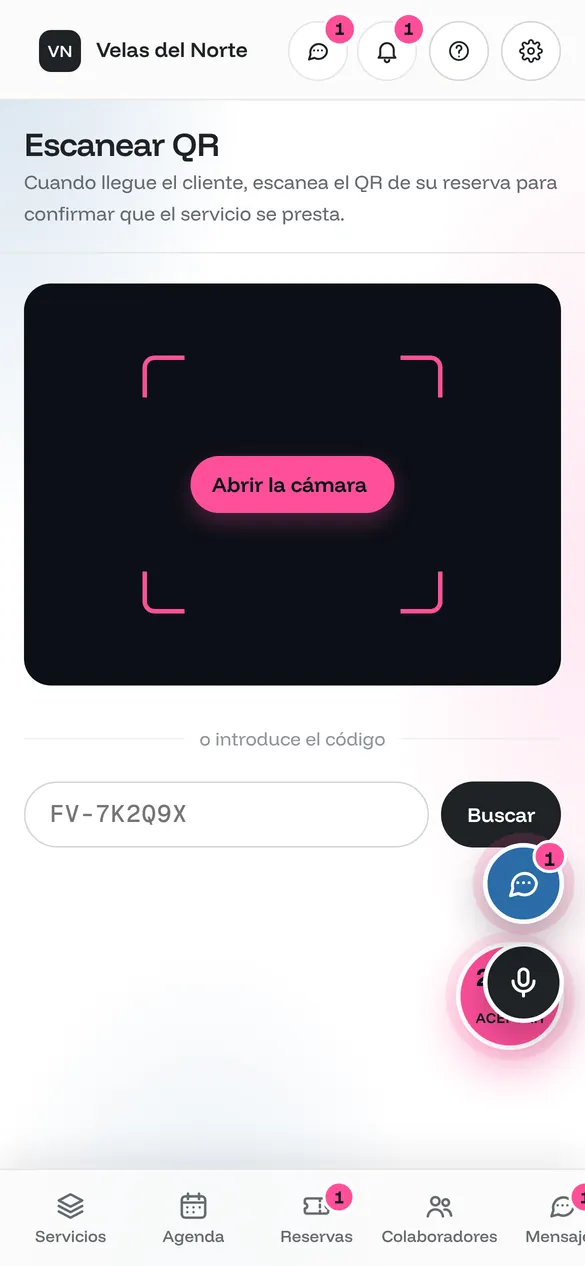
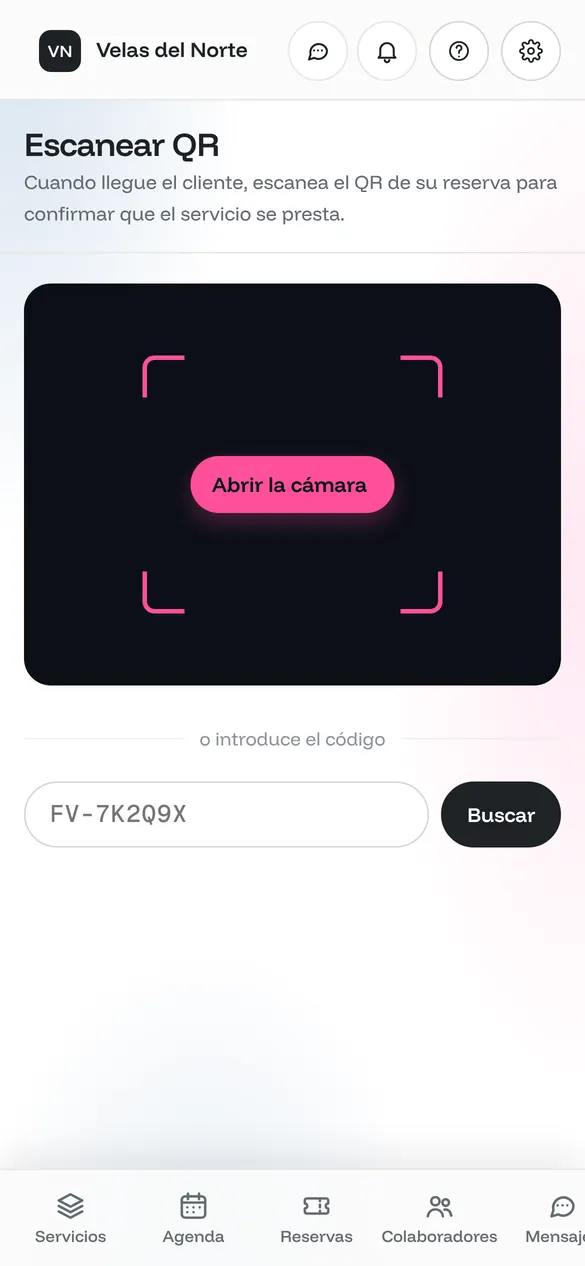
Pantallas del móvil de empresas de servicios sin botones flotantes ni notificaciones
Se vuelven a sacar de la app ocultando la burbuja «por aceptar», el micrófono, el chat
flotante y los números de avisos (se montaban unos encima de otros).

Claude-Session: https://claude.ai/code/session_01Myzkpi4ef6w6z5C82k8a4c

diff --git a/service-businesses.html b/service-businesses.html
@@ -171,7 +171,7 @@ footer a:hover{color:var(--ink)}
   <section id="que-tienes"><div class="wrap">
     <div class="head"><span class="eb">What you get</span><h2>A new sales channel and one calendar for everything<span class="dot">.</span></h2><p>Built for businesses with several boats or services, and for the skipper with a phone in hand.</p></div>
     <div class="grid"><div class="card"><span class="k">Calendar</span><h3>A professional calendar</h3><p>Your boats or services in columns, by day, week or month. Your phone and web bookings next to Favent’s; with Pro, also with Google Calendar.</p></div><div class="card"><span class="k">Bookings</span><h3>Bookings that arrive paid</h3><p>Accept or decline with one tap. The deposit is charged when you accept and, if the client does not show up, you keep it.</p></div><div class="card"><span class="k">Commission</span><h3>You set the commission</h3><p>On each service. With your partners, you agree on it once and it applies to every booking.</p></div><div class="card"><span class="k">Colleagues</span><h3>Between colleagues</h3><p>Fully booked that day? Pass the booking to a business you partner with and earn your commission.</p></div><div class="card"><span class="k">QR</span><h3>Redeem with your phone</h3><p>The skipper or guide scans the client’s QR code with their phone when starting, with their own team login.</p></div><div class="card"><span class="k">Reports</span><h3>Your sales, clearly</h3><p>Sales by month, by channel and by partner, occupancy and what has come in through Favent.</p></div></div>
-    <figure class="ph" aria-label="The app on your phone, with sample data: the calendar, a booking to accept, your services, redeeming the QR and the reports."><div class="ph-dev"><div class="ph-track" tabindex="0"><img src="/img/app/en/ph-ofr-agenda.webp?v=1" alt="Your calendar" width="390" height="844" loading="lazy" decoding="async" data-l="Your calendar"><img src="/img/app/en/ph-ofr-reservas.webp?v=1" alt="Accept bookings" width="390" height="844" loading="lazy" decoding="async" data-l="Accept bookings"><img src="/img/app/en/ph-ofr-servicios.webp?v=1" alt="Your services" width="390" height="844" loading="lazy" decoding="async" data-l="Your services"><img src="/img/app/en/ph-ofr-escanear.webp?v=1" alt="Redeem the QR" width="390" height="844" loading="lazy" decoding="async" data-l="Redeem the QR"><img src="/img/app/en/ph-ofr-informes.webp?v=1" alt="Your reports" width="390" height="844" loading="lazy" decoding="async" data-l="Your reports"></div></div><figcaption class="ph-cap"><span>Your calendar</span> <i>· sample data</i></figcaption><div class="ph-dots"><button type="button" aria-label="Screen 1" aria-current="true"></button><button type="button" aria-label="Screen 2"></button><button type="button" aria-label="Screen 3"></button><button type="button" aria-label="Screen 4"></button><button type="button" aria-label="Screen 5"></button></div></figure>
+    <figure class="ph" aria-label="The app on your phone, with sample data: the calendar, a booking to accept, your services, redeeming the QR and the reports."><div class="ph-dev"><div class="ph-track" tabindex="0"><img src="/img/app/en/ph-ofr-agenda.webp?v=2" alt="Your calendar" width="390" height="844" loading="lazy" decoding="async" data-l="Your calendar"><img src="/img/app/en/ph-ofr-reservas.webp?v=2" alt="Accept bookings" width="390" height="844" loading="lazy" decoding="async" data-l="Accept bookings"><img src="/img/app/en/ph-ofr-servicios.webp?v=2" alt="Your services" width="390" height="844" loading="lazy" decoding="async" data-l="Your services"><img src="/img/app/en/ph-ofr-escanear.webp?v=2" alt="Redeem the QR" width="390" height="844" loading="lazy" decoding="async" data-l="Redeem the QR"><img src="/img/app/en/ph-ofr-informes.webp?v=2" alt="Your reports" width="390" height="844" loading="lazy" decoding="async" data-l="Your reports"></div></div><figcaption class="ph-cap"><span>Your calendar</span> <i>· sample data</i></figcaption><div class="ph-dots"><button type="button" aria-label="Screen 1" aria-current="true"></button><button type="button" aria-label="Screen 2"></button><button type="button" aria-label="Screen 3"></button><button type="button" aria-label="Screen 4"></button><button type="button" aria-label="Screen 5"></button></div></figure>
     <script>(function(){var ph=document.querySelector('.ph');if(!ph)return;var tr=ph.querySelector('.ph-track'),im=tr.children,ds=ph.querySelectorAll('.ph-dots button'),cap=ph.querySelector('.ph-cap span'),i=0,t=null,seen=false,rm=window.matchMedia&&matchMedia('(prefers-reduced-motion: reduce)').matches;function show(k){i=k;for(var j=0;j<ds.length;j++)ds[j].setAttribute('aria-current',j===k?'true':'false');cap.textContent=im[k].getAttribute('data-l');}function go(k){tr.scrollTo({left:k*tr.clientWidth,behavior:rm?'auto':'smooth'});}tr.addEventListener('scroll',function(){var k=Math.round(tr.scrollLeft/tr.clientWidth);if(k!==i&&im[k])show(k);},{passive:true});function stop(){clearInterval(t);t=null;}function play(){if(rm||t||!seen)return;t=setInterval(function(){go((i+1)%im.length);},2800);}var idle=null;function pause(){stop();clearTimeout(idle);idle=setTimeout(play,8000);}['pointerdown','touchstart','wheel','keydown'].forEach(function(ev){tr.addEventListener(ev,pause,{passive:true});});for(var j=0;j<ds.length;j++)(function(j){ds[j].addEventListener('click',function(){pause();go(j);});})(j);if('IntersectionObserver' in window)new IntersectionObserver(function(es){es.forEach(function(x){seen=x.isIntersecting;if(seen)play();else stop();});},{threshold:.4}).observe(ph);})();</script>
   </div></section>
 

diff --git a/empresas-de-servicios.html b/empresas-de-servicios.html
@@ -173,7 +173,7 @@ footer a:hover{color:var(--ink)}
   <section id="que-tienes"><div class="wrap">
     <div class="head"><span class="eb">Lo que tienes</span><h2>Un canal de venta nuevo y una agenda para todo<span class="dot">.</span></h2><p>Pensado para empresas con varios barcos o servicios, y para el capitán con el móvil en la mano.</p></div>
     <div class="grid"><div class="card"><span class="k">Agenda</span><h3>Una agenda profesional</h3><p>Tus barcos o servicios en columnas, por día, semana o mes. Tus reservas de teléfono y web junto a las de Favent; con Pro, también con Google Calendar.</p></div><div class="card"><span class="k">Reservas</span><h3>Reservas que llegan pagadas</h3><p>Aceptas o rechazas en un toque. La señal se cobra al aceptar y, si el cliente no se presenta, se queda.</p></div><div class="card"><span class="k">Comisión</span><h3>Tú fijas la comisión</h3><p>En cada servicio. Con tus colaboradores, la pactáis una vez y vale para todas las reservas.</p></div><div class="card"><span class="k">Colegas</span><h3>Entre colegas</h3><p>¿Ese día estás lleno? Pasa la reserva a una empresa con la que colaboras y cobra tu comisión.</p></div><div class="card"><span class="k">QR</span><h3>Canje con el móvil</h3><p>El capitán o el guía escanea con el móvil el QR del cliente al empezar, con su usuario del equipo.</p></div><div class="card"><span class="k">Informes</span><h3>Tus ventas, claras</h3><p>Ventas por mes, por canal y por socio, ocupación y lo que te ha llegado con Favent.</p></div></div>
-    <figure class="ph" aria-label="La app en el móvil, con datos de ejemplo: la agenda, una reserva por aceptar, tus servicios, el canje del QR y los informes."><div class="ph-dev"><div class="ph-track" tabindex="0"><img src="/img/app/es/ph-ofr-agenda.webp?v=1" alt="Tu agenda" width="390" height="844" loading="lazy" decoding="async" data-l="Tu agenda"><img src="/img/app/es/ph-ofr-reservas.webp?v=1" alt="Acepta reservas" width="390" height="844" loading="lazy" decoding="async" data-l="Acepta reservas"><img src="/img/app/es/ph-ofr-servicios.webp?v=1" alt="Tus servicios" width="390" height="844" loading="lazy" decoding="async" data-l="Tus servicios"><img src="/img/app/es/ph-ofr-escanear.webp?v=1" alt="Canjea el QR" width="390" height="844" loading="lazy" decoding="async" data-l="Canjea el QR"><img src="/img/app/es/ph-ofr-informes.webp?v=1" alt="Tus informes" width="390" height="844" loading="lazy" decoding="async" data-l="Tus informes"></div></div><figcaption class="ph-cap"><span>Tu agenda</span> <i>· datos de ejemplo</i></figcaption><div class="ph-dots"><button type="button" aria-label="Pantalla 1" aria-current="true"></button><button type="button" aria-label="Pantalla 2"></button><button type="button" aria-label="Pantalla 3"></button><button type="button" aria-label="Pantalla 4"></button><button type="button" aria-label="Pantalla 5"></button></div></figure>
+    <figure class="ph" aria-label="La app en el móvil, con datos de ejemplo: la agenda, una reserva por aceptar, tus servicios, el canje del QR y los informes."><div class="ph-dev"><div class="ph-track" tabindex="0"><img src="/img/app/es/ph-ofr-agenda.webp?v=2" alt="Tu agenda" width="390" height="844" loading="lazy" decoding="async" data-l="Tu agenda"><img src="/img/app/es/ph-ofr-reservas.webp?v=2" alt="Acepta reservas" width="390" height="844" loading="lazy" decoding="async" data-l="Acepta reservas"><img src="/img/app/es/ph-ofr-servicios.webp?v=2" alt="Tus servicios" width="390" height="844" loading="lazy" decoding="async" data-l="Tus servicios"><img src="/img/app/es/ph-ofr-escanear.webp?v=2" alt="Canjea el QR" width="390" height="844" loading="lazy" decoding="async" data-l="Canjea el QR"><img src="/img/app/es/ph-ofr-informes.webp?v=2" alt="Tus informes" width="390" height="844" loading="lazy" decoding="async" data-l="Tus informes"></div></div><figcaption class="ph-cap"><span>Tu agenda</span> <i>· datos de ejemplo</i></figcaption><div class="ph-dots"><button type="button" aria-label="Pantalla 1" aria-current="true"></button><button type="button" aria-label="Pantalla 2"></button><button type="button" aria-label="Pantalla 3"></button><button type="button" aria-label="Pantalla 4"></button><button type="button" aria-label="Pantalla 5"></button></div></figure>
     <script>(function(){var ph=document.querySelector('.ph');if(!ph)return;var tr=ph.querySelector('.ph-track'),im=tr.children,ds=ph.querySelectorAll('.ph-dots button'),cap=ph.querySelector('.ph-cap span'),i=0,t=null,seen=false,rm=window.matchMedia&&matchMedia('(prefers-reduced-motion: reduce)').matches;function show(k){i=k;for(var j=0;j<ds.length;j++)ds[j].setAttribute('aria-current',j===k?'true':'false');cap.textContent=im[k].getAttribute('data-l');}function go(k){tr.scrollTo({left:k*tr.clientWidth,behavior:rm?'auto':'smooth'});}tr.addEventListener('scroll',function(){var k=Math.round(tr.scrollLeft/tr.clientWidth);if(k!==i&&im[k])show(k);},{passive:true});function stop(){clearInterval(t);t=null;}function play(){if(rm||t||!seen)return;t=setInterval(function(){go((i+1)%im.length);},2800);}var idle=null;function pause(){stop();clearTimeout(idle);idle=setTimeout(play,8000);}['pointerdown','touchstart','wheel','keydown'].forEach(function(ev){tr.addEventListener(ev,pause,{passive:true});});for(var j=0;j<ds.length;j++)(function(j){ds[j].addEventListener('click',function(){pause();go(j);});})(j);if('IntersectionObserver' in window)new IntersectionObserver(function(es){es.forEach(function(x){seen=x.isIntersecting;if(seen)play();else stop();});},{threshold:.4}).observe(ph);})();</script>
   </div></section>
 
